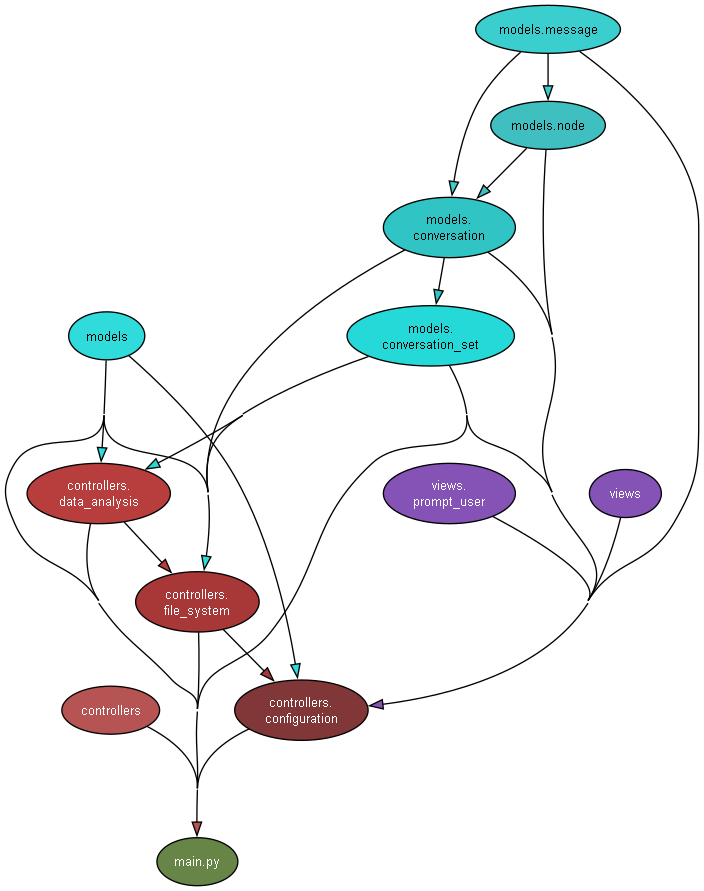
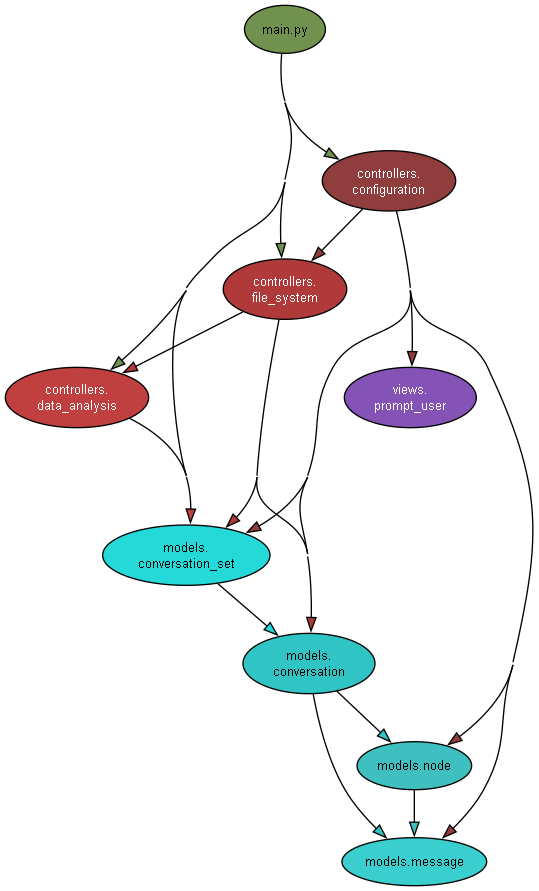
~

diff --git a/CONTRIBUTING.md b/CONTRIBUTING.md
@@ -48,7 +48,11 @@ Check the `Issues` tab for bugs, enhancements, or first-timer tasks. If you have
 
 The [Project Todo](TODO.md) and [JavaScript Todo](js/how_to_use.md#still-working-on) also offer areas needing attention.
 
-See also a rough internal dependency graph of the project [here](assets/deps_graph.png) (the graph is not complete, but it gives a general idea of the project's structure). Generated using [pydeps](https://github.com/thebjorn/pydeps).
+See also a rough internal dependency graph of the project [here](assets/deps_graph.png) (the graph is not complete, but it gives a general idea of the project's structure). Generated using :
+
+```bash
+pydeps main.py -o assets/deps_graph.png -T png --noshow --reverse --rankdir BT --exclude-exact models views controllers
+```
 
 ## Documentation
 
